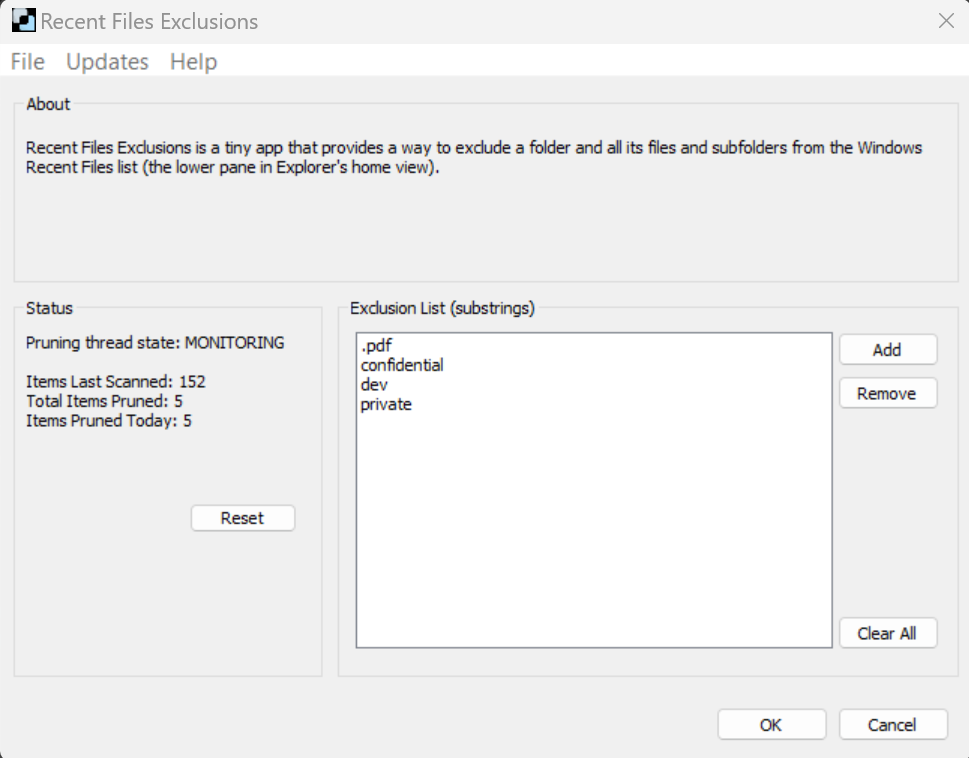
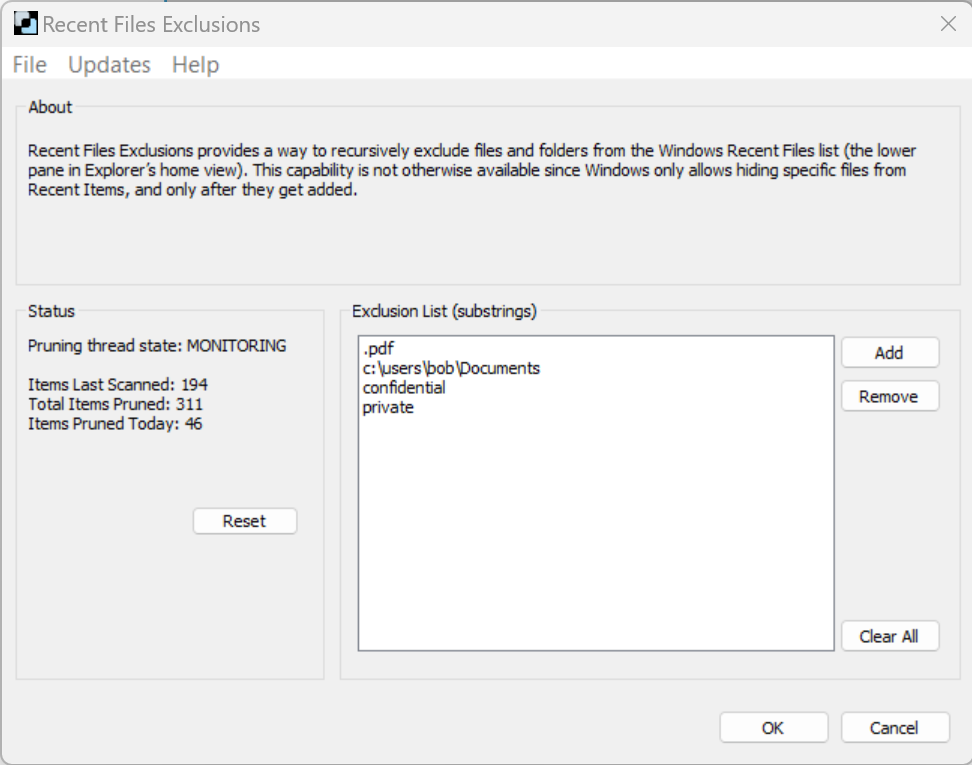
Move app description to resource strings

diff --git a/ListDialog.cpp b/ListDialog.cpp
@@ -53,7 +53,7 @@ INT_PTR WINAPI ListDialogProc(HWND hDlg, UINT message, WPARAM wParam, LPARAM lPa
 	HWND hWndList;
 	static bool s_bChangesMade = false;
 	static HBRUSH hbrBkgnd = nullptr;
-	static const int ctlIds[] = { IDOK, IDCANCEL, IDC_RESET, IDC_STATS, IDC_ADD, IDC_REMOVE, IDC_CLEAR, IDC_LIST_STRINGS, IDC_STATIC, IDC_STATIC_1, IDC_STATIC_2 };
+	static const int ctlIds[] = { IDOK, IDCANCEL, IDC_RESET, IDC_STATS, IDC_ADD, IDC_REMOVE, IDC_CLEAR, IDC_LIST_STRINGS, IDC_STATIC_DESCRIPTION, IDC_STATIC_1, IDC_STATIC_2 };
 
 	switch (message)
 	{
@@ -73,9 +73,11 @@ INT_PTR WINAPI ListDialogProc(HWND hDlg, UINT message, WPARAM wParam, LPARAM lPa
 		SendMessage(hDlg, WM_SETICON, ICON_SMALL, (LPARAM)LoadImage(g_RecentItemsExclusionsApp.hResourceModule, MAKEINTRESOURCE(IDI_ICON1), IMAGE_ICON, 16, 16, 0));
 		SendMessage(hDlg, WM_SETICON, ICON_BIG, (LPARAM)LoadImage(g_RecentItemsExclusionsApp.hResourceModule, MAKEINTRESOURCE(IDI_ICON1), IMAGE_ICON, 32, 32, 0));
 
-		s_bChangesMade = false;	// reinit for subsequent dialog instances
+		s_bChangesMade = false;	// reinit for subsequent dialog instances		
 
 		SetMenu(hDlg, LoadMenu(g_RecentItemsExclusionsApp.hResourceModule, MAKEINTRESOURCE(IDR_MENU_MAIN)));
+
+		SetDlgItemText(hDlg, IDC_STATIC_DESCRIPTION, ResourceHelpers::LoadResourceString(g_RecentItemsExclusionsApp.hResourceModule, IDS_PRODUCT_DESCRIPTION).c_str());
 
 		std::vector<std::wstring> vStrings;
 		if (g_RecentItemsExclusionsApp.ListSerializer.LoadListFromFile(g_RecentItemsExclusionsApp.strListSavePath, vStrings) > 0)

diff --git a/resource.h b/resource.h
@@ -21,6 +21,7 @@
 #define IDS_UPDATE_SIGNED_FAILURE_MESSAGE_FMT 117
 #define IDD_DIALOG3                     118
 #define IDD_ABOUT                       118
+#define IDS_PRODUCT_DESCRIPTION         118
 #define IDS_UPDATE_ERROR_LAUNCHING      119
 #define IDC_LIST1                       1001
 #define IDC_LIST_STRINGS                1001
@@ -35,9 +36,9 @@
 #define IDC_RESET                       1006
 #define IDC_VERSIONINFO                 1007
 #define IDC_STATS                       1008
-#define IDC_STATIC                      1009
 #define IDC_STATIC_1                    1010
 #define IDC_STATIC_2                    1011
+#define IDC_STATIC_DESCRIPTION          1012
 #define ID_FILE_EXIT                    40001
 #define ID_FILE_MINIMIZE                40002
 #define ID_HELP_ABOUT                   40003
@@ -53,7 +54,7 @@
 #ifndef APSTUDIO_READONLY_SYMBOLS
 #define _APS_NEXT_RESOURCE_VALUE        120
 #define _APS_NEXT_COMMAND_VALUE         40010
-#define _APS_NEXT_CONTROL_VALUE         1012
+#define _APS_NEXT_CONTROL_VALUE         1013
 #define _APS_NEXT_SYMED_VALUE           101
 #endif
 #endif

diff --git a/versioninfo.h b/versioninfo.h
@@ -2,9 +2,9 @@
 
 #define PRODUCT_NAME L"Recent Files Exclusions"
 #define PRODUCT_NAME_REG L"RecentFilesExclusions"
-#define PRODUCT_VERSION L"0.9.9.1"
-#define RAW_FILE_VERSION 0,9,9,1
-#define RAW_PRODUCT_VERSION 0,9,9,1
+#define PRODUCT_VERSION L"0.9.9.3"
+#define RAW_FILE_VERSION 0,9,9,3
+#define RAW_PRODUCT_VERSION 0,9,9,3
 #define RESOURCE_FILE_VERSION RAW_PRODUCT_VERSION
 #define RESOURCE_PRODUCT_VERSION PRODUCT_VERSION
 #define RESOURCE_LEGAL_COPYRIGHT "(c)2023 Bitsum LLC"
